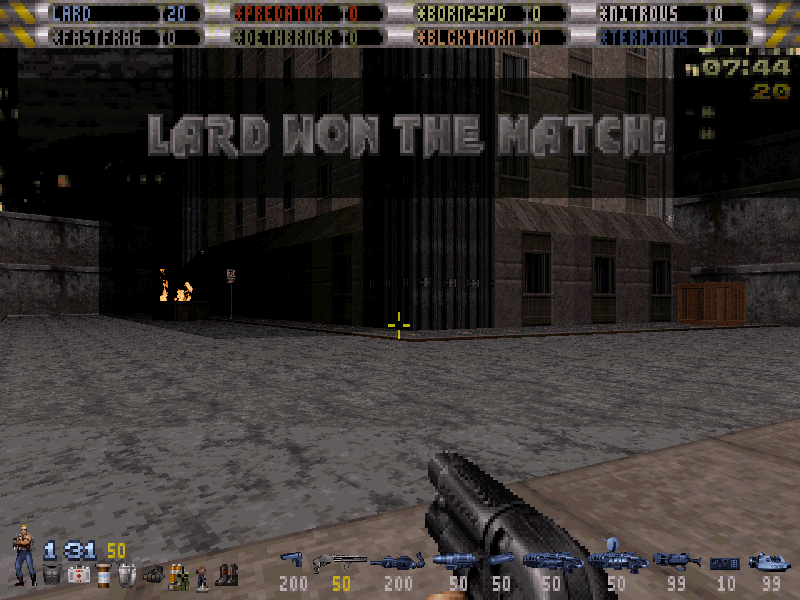
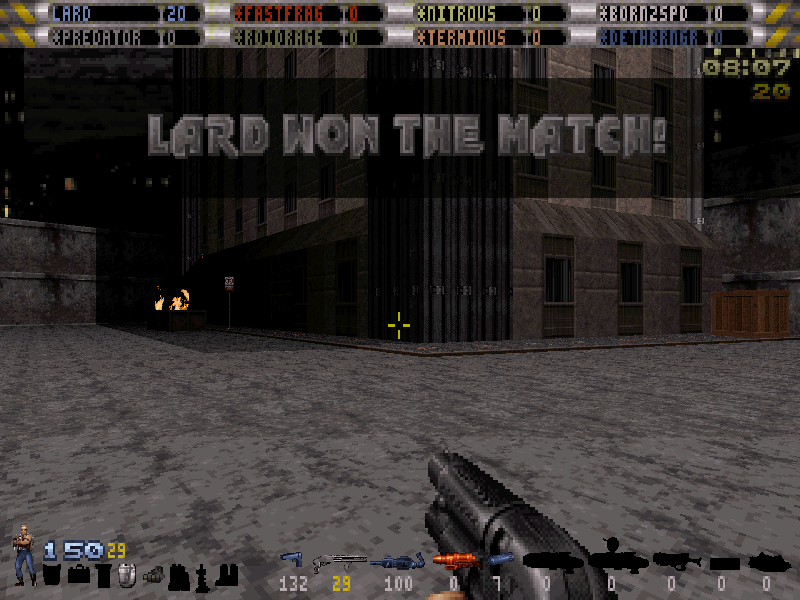
retook all screenshots and made some gifs

diff --git a/src/pages/features.html b/src/pages/features.html
@@ -964,11 +964,10 @@
                         </tbody>
                     </table>
 
-                    <img class="screenshot" src="res/screenshots/team-visor-low-hp.png" alt="team visor">
-                    <img class="screenshot" src="res/screenshots/team-visor-mini-font.png" alt="team visor">
+                    <img class="screenshot" src="res/screenshots/team-visor.gif" alt="team visor">
 
                     <span lang="en">If the outlines are enabled, the visor will be visible through walls as well!</span>
-                    <span lang="pt">Se os contornes estiverem habilitados, o visor ficará visivel através das paredes também!</span>
+                    <span lang="pt">Se os contornos estiverem habilitados, o visor ficará visivel através das paredes também!</span>
 
                     <img class="screenshot" src="res/screenshots/team-visor-through-walls.png" alt="team visor">
 
@@ -988,8 +987,12 @@
                         <span lang="pt">Pontos de Spawn por Time</span>
                         <a href="#team-spawn-points">#</a>
                     </h2>
+
+                    <span lang="en"></span>
+                    <span lang="pt"></span>
+
             
-                    </div>
+                </div>
             
             </section>
             
@@ -1006,7 +1009,7 @@
                         <a href="#team-chat">#</a>
                     </h2>
             
-                    </div>
+                </div>
             
             </section>
             
@@ -1023,7 +1026,7 @@
                         <a href="#team-view">#</a>
                     </h2>
             
-                    </div>
+                </div>
             
             </section>
             
@@ -1040,7 +1043,7 @@
                         <a href="#team-on-automap">#</a>
                     </h2>
             
-                    </div>
+                </div>
             
             </section>
             
@@ -1057,7 +1060,7 @@
                         <a href="#team-colored-tripboms">#</a>
                     </h2>
             
-                    </div>
+                </div>
             
             </section>
             
@@ -1077,7 +1080,7 @@
                     <span lang="en">By default, when playing team based modes, your autoaim will never aim on your allies. This feature can be disabled on the menu <pre>Netplay Options > NetFlags > [TEAM] AutoAim On Allies</pre>.</span>
                     <span lang="pt">Por padrão, quando estiver jogando modos de time, a sua mira automática nunca vai mirar nos seus aliados. Essa função pode ser desativada no menu <pre>Netplay Options > NetFlags > [TEAM] AutoAim On Allies</pre>.</span>
 
-                    <img class="screenshot" src="res/screenshots/smart-autoaim.png" alt="smart autoaim">
+                    <img class="screenshot" src="res/screenshots/smart-autoaim.gif" alt="smart autoaim">
 
                 </div>
             
